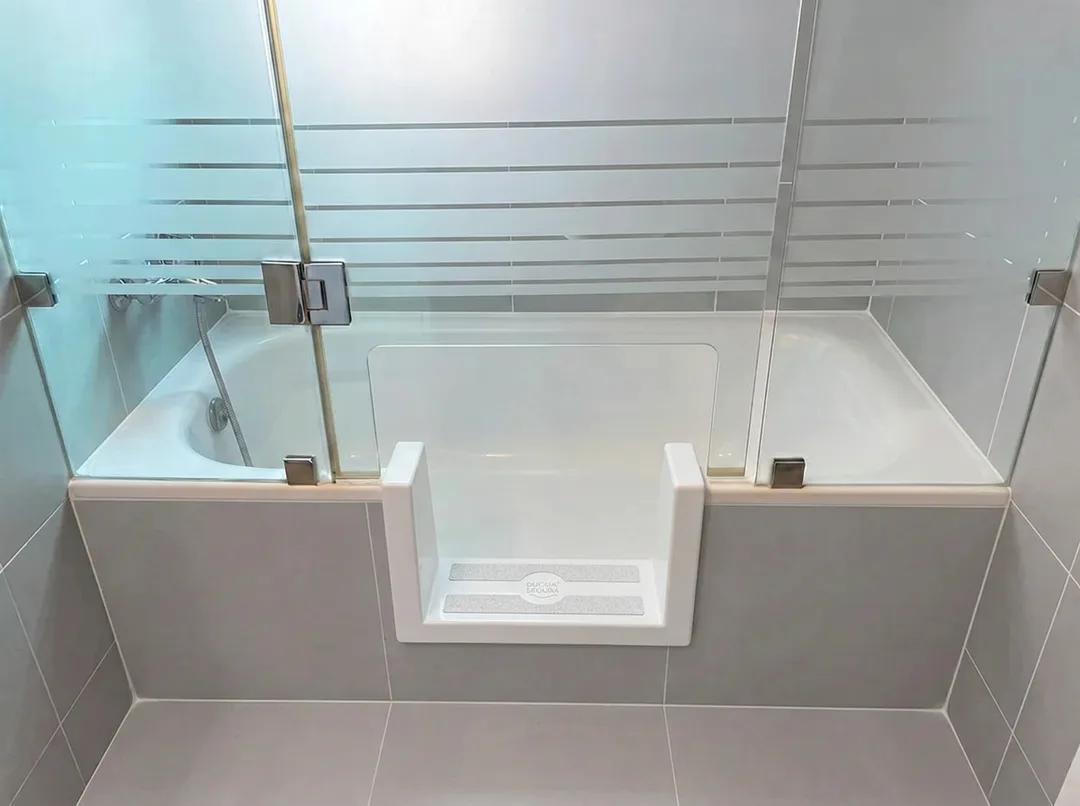
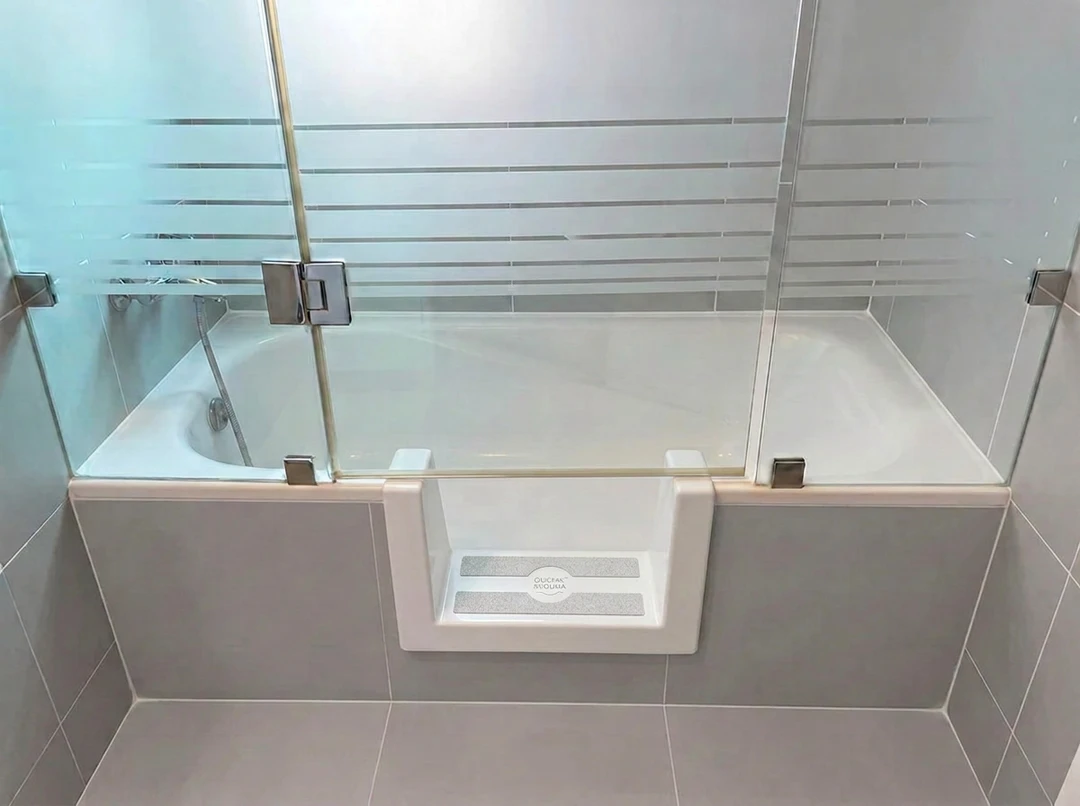
fix(tipos-de-tina): boton azul "Cotizar con esta tina" que arranca la cotizacion
- Foto "despues" nueva de la tina especial con mampara (webp desde el PNG fuente).
- El link pasa a boton (btn btn--primary btn--sm), antes era texto plano.
- El boton agrega el rebaje correspondiente al carrito (jacuzzi para hidromasaje,
  tradicional para el resto) y navega a /cotizar?tina=<id>. Antes iba a /cotizar
  sin nada: con el carrito vacio la pagina mostraba "Tu cotizacion esta vacia" y
  escondia el selector de tinas, asi que en produccion el boton no servia.
- cotizar.ts preselecciona el tipo de tina leyendo ?tina=<id>.

Changed region(s): [[0.275, 0.5273, 0.6722, 0.8375], [0.4278, 0.4032, 0.4583, 0.4342]]

diff --git a/src/scripts/cotizar.ts b/src/scripts/cotizar.ts
@@ -66,6 +66,14 @@ export function initCotizar(): void {
   // Tipo de tina solo si hay rebaje
   if (tinaBlock) tinaBlock.style.display = needsTina ? '' : 'none';
 
+  // Preselección desde /tipos-de-tina ("Cotizar con esta tina" → /cotizar?tina=<id>).
+  const wanted = new URLSearchParams(location.search).get('tina');
+  if (needsTina && wanted) {
+    const radios = Array.from(form.querySelectorAll<HTMLInputElement>('input[name="tipoTina"]'));
+    const hit = radios.find(r => r.value === wanted);
+    if (hit) hit.checked = true;
+  }
+
   // Instalación: SOLO para kits/accesorios. Si hay un rebaje en el carrito, no aplica.
   const instalBlock = document.getElementById('instalBlock');
   const instalChk = document.getElementById('instalacionChk') as HTMLInputElement | null;
